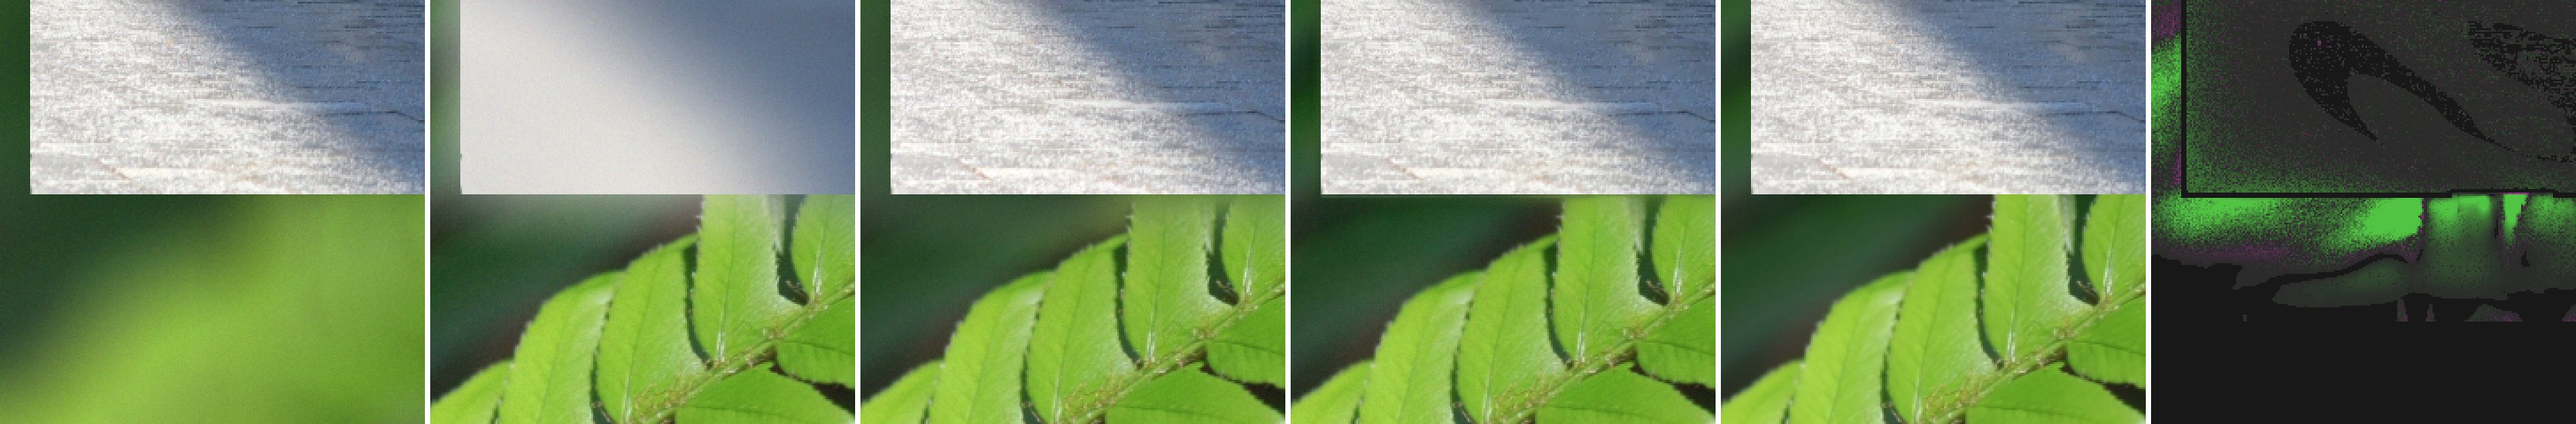
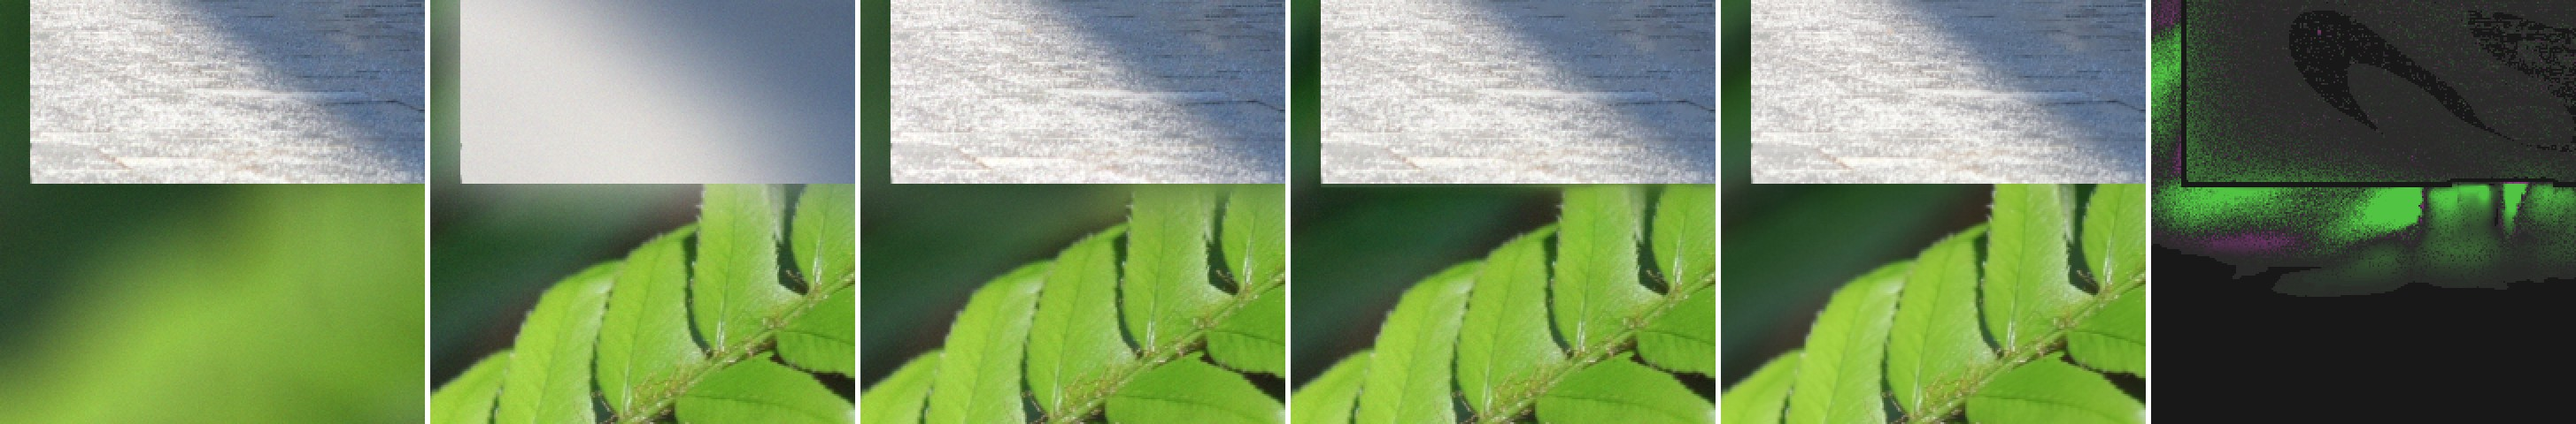
Invert veil formation at transmission boundary

diff --git a/src/focusstack/veil_layers.py b/src/focusstack/veil_layers.py
@@ -3731,9 +3731,16 @@ def recover_giant_veil(
         veil_support = (
             _fringe_mask(alpha, max_radius, 2.0 * spatial_scale) > 0.0
         )
-        support_edge = veil_support & ~(
+        modeled_veil_coverage = np.minimum(
+            np.clip(_box_disk_blur(alpha, max_radius), 0.0, 1.0),
+            np.clip(_disk_blur(alpha, max_radius), 0.0, 1.0),
+        )
+        integration_support = veil_support & (
+            modeled_veil_coverage >= VISIBILITY_COVERAGE_RAMP
+        )
+        support_edge = integration_support & ~(
             cv2.erode(
-                veil_support.astype(np.uint8),
+                integration_support.astype(np.uint8),
                 np.ones((3, 3), np.uint8),
             )
             > 0
@@ -3753,7 +3760,7 @@ def recover_giant_veil(
                 5,
             )
             transition_width = np.where(
-                veil_support,
+                integration_support,
                 1.5 * spatial_scale,
                 4.0 * spatial_scale,
             )
@@ -3767,7 +3774,7 @@ def recover_giant_veil(
             )
             seam_strength[front_extent] = 0.0
             low_transition_width = np.where(
-                veil_support,
+                integration_support,
                 5.0 * spatial_scale,
                 4.0 * spatial_scale,
             )
@@ -3783,9 +3790,8 @@ def recover_giant_veil(
                 * (3.0 - 2.0 * low_seam_phase)
             )
             low_seam_strength[front_extent] = 0.0
-            low_seam_strength[~veil_support] = 0.0
             signed_edge_distance = np.where(
-                veil_support,
+                integration_support,
                 -edge_distance,
                 edge_distance,
             ).astype(np.float32)
@@ -3872,7 +3878,13 @@ def recover_giant_veil(
                 borderType=cv2.BORDER_REFLECT,
             )
             latent_delta = latent_rear_low - composed_low
+            rear_observed = images[1 - owner].astype(np.float32)
+            owner_observed = images[owner].astype(np.float32)
+            premultiplied_owner = alpha[..., None] * owner_observed
             counterfactual_magnitudes = []
+            direct_rear_candidates = []
+            rear_transmissions = []
+            direct_fit_residuals = []
             for visibility_blur_fn in (_box_disk_blur, _disk_blur):
                 visibility_model = _prepare_model(
                     alpha,
@@ -3895,10 +3907,77 @@ def recover_giant_veil(
                         )
                     )
                 )
+                rear_transmission = visibility_model["transmission"][1]
+                foreground_veil = (
+                    visibility_model["foreground_scale"][1]
+                    * _blur_channels(
+                        premultiplied_owner,
+                        visibility_model["near_radii"][1],
+                        visibility_blur_fn,
+                    )
+                )
+                direct_rear_candidate = np.clip(
+                    (rear_observed - foreground_veil)
+                    / np.maximum(rear_transmission, 0.08),
+                    0.0,
+                    255.0,
+                )
+                direct_rear_candidates.append(direct_rear_candidate)
+                rear_transmissions.append(
+                    np.mean(rear_transmission, axis=2)
+                )
+                direct_prediction = _forward_layers(
+                    owner_observed,
+                    direct_rear_candidate,
+                    visibility_model,
+                )
+                direct_fit_residuals.append(
+                    cv2.GaussianBlur(
+                        0.5
+                        * (
+                            np.mean(
+                                np.abs(
+                                    direct_prediction[0]
+                                    - owner_observed
+                                ),
+                                axis=2,
+                            )
+                            + np.mean(
+                                np.abs(
+                                    direct_prediction[1]
+                                    - rear_observed
+                                ),
+                                axis=2,
+                            )
+                        ),
+                        (0, 0),
+                        integration_sigma,
+                        borderType=cv2.BORDER_REFLECT,
+                    )
+                )
             counterfactual_magnitude = np.minimum.reduce(
                 counterfactual_magnitudes
             )
-            rear_observed = images[1 - owner].astype(np.float32)
+            prefer_first_model = (
+                direct_fit_residuals[0] <= direct_fit_residuals[1]
+            )
+            direct_rear = np.where(
+                prefer_first_model[..., None],
+                direct_rear_candidates[0],
+                direct_rear_candidates[1],
+            )
+            direct_rear_low = cv2.GaussianBlur(
+                direct_rear,
+                (0, 0),
+                integration_sigma,
+                borderType=cv2.BORDER_REFLECT,
+            )
+            direct_delta = direct_rear_low - composed_low
+            rear_transmission = np.where(
+                prefer_first_model,
+                rear_transmissions[0],
+                rear_transmissions[1],
+            )
             rear_detail = rear_observed - cv2.GaussianBlur(
                 rear_observed,
                 (0, 0),
@@ -3917,6 +3996,17 @@ def recover_giant_veil(
                 1.0,
                 observation_noise,
             )
+            transmission_phase = np.clip(
+                (rear_transmission - 0.12) / 0.55,
+                0.0,
+                1.0,
+            )
+            transmission_weight = (
+                transmission_phase
+                * transmission_phase
+                * (3.0 - 2.0 * transmission_phase)
+            )
+            direct_weight = transmission_weight
             censored_phase = np.clip(
                 (detection_floor - counterfactual_magnitude)
                 / np.maximum(0.5 * detection_floor, 1e-6),
@@ -3929,8 +4019,13 @@ def recover_giant_veil(
             applied_correction += (
                 6.25
                 * low_seam_strength[..., None]
-                * censored_weight[..., None]
-                * latent_delta
+                * (
+                    direct_weight[..., None] * direct_delta
+                    + (1.0 - direct_weight[..., None])
+                    * censored_weight[..., None]
+                    * integration_support[..., None]
+                    * latent_delta
+                )
             )
             report["latent_background_counterfactual_fraction"] = float(
                 (
